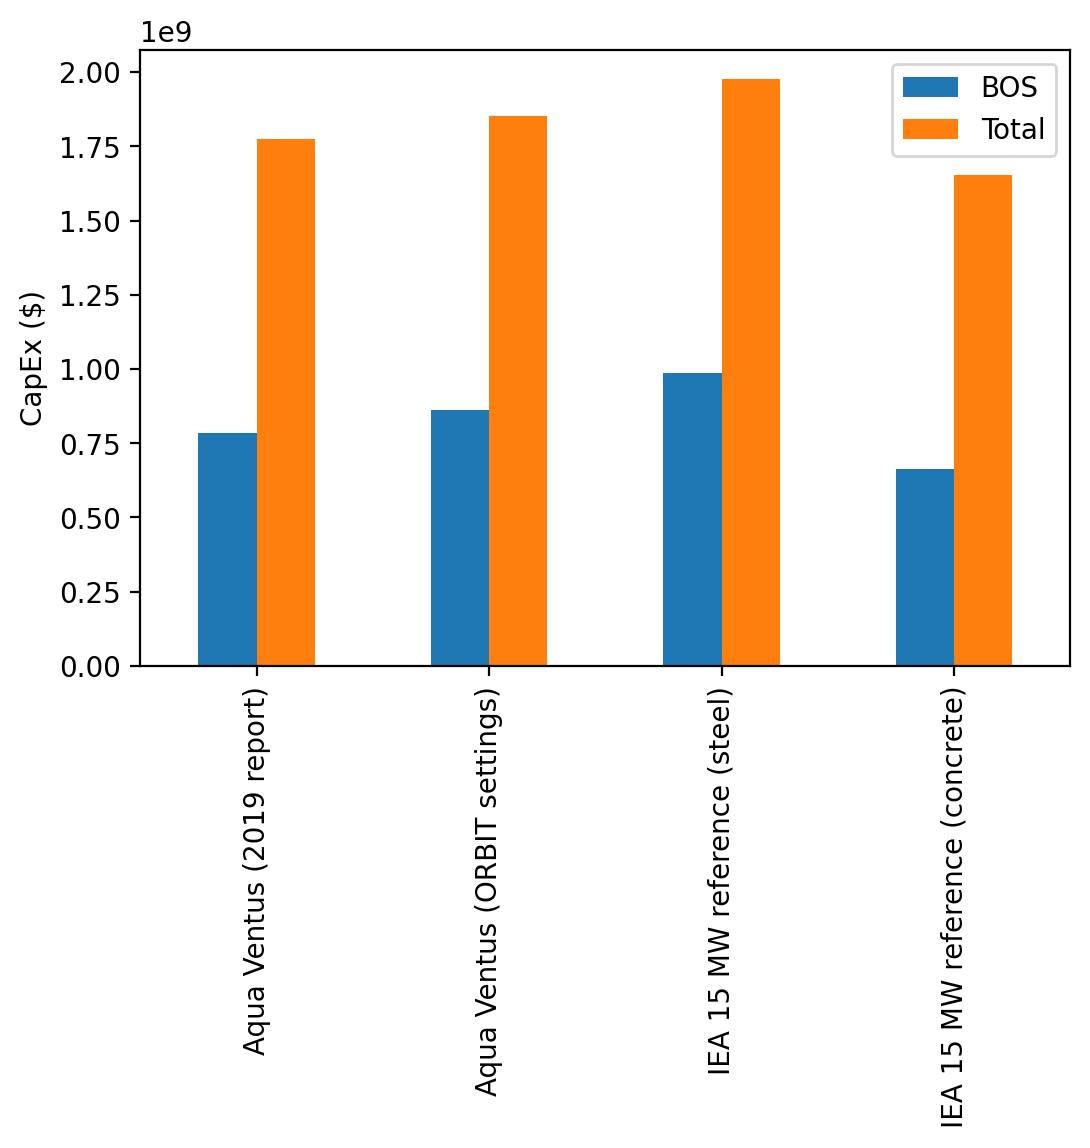
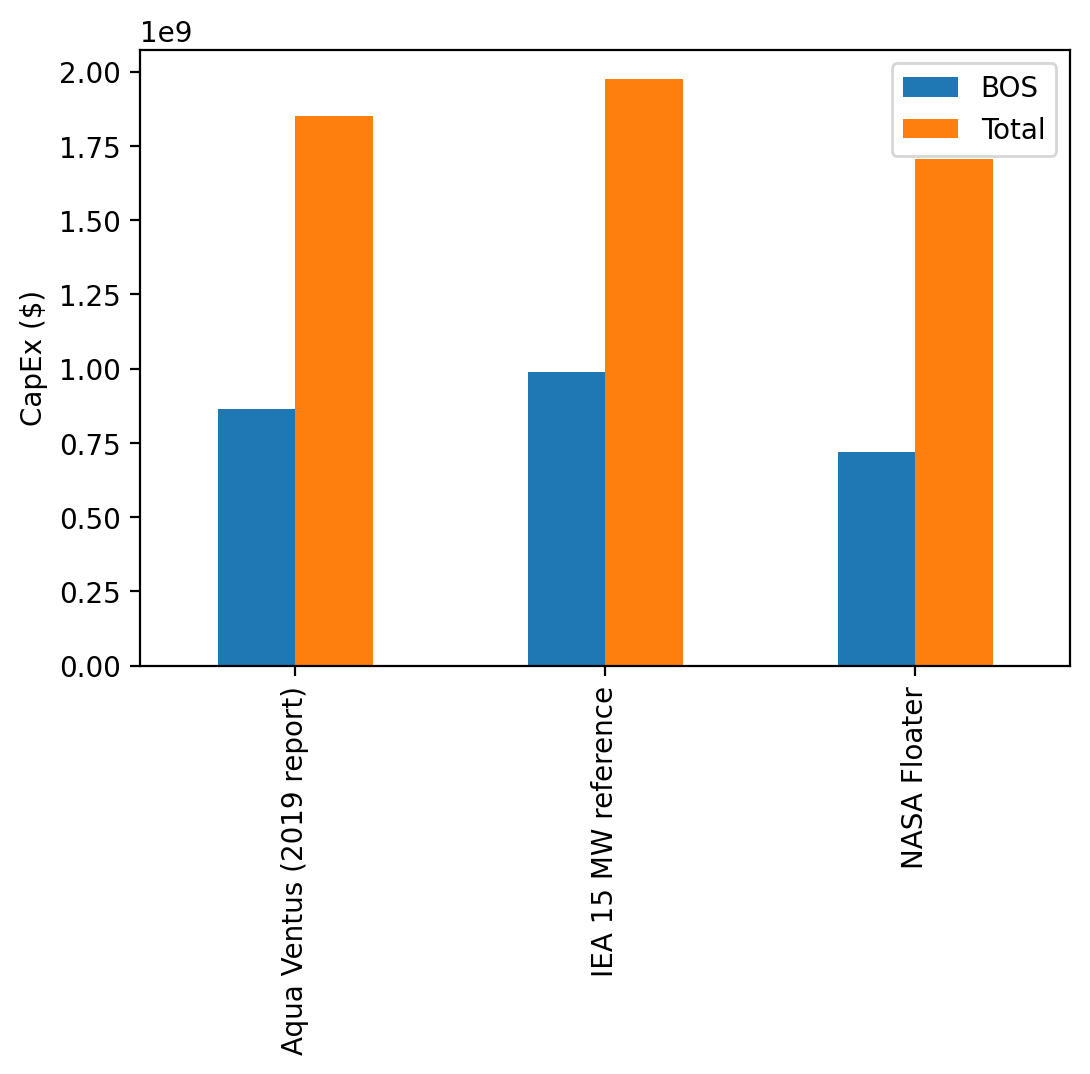
Updated NASA floater capex values

diff --git a/run_analysis.py b/run_analysis.py
@@ -23,6 +23,7 @@ AQUA_VENTUS_SUB_COSTS = 690 * PROJECT_kW # $
 AQUA_VENTUS_MOOR_COSTS = 0
 AQUA_VENTUS_ELEC_COSTS = 466 * PROJECT_kW # $
 TRANSPORT_COSTS = 1e6 / 5000  # $/t
+NASA_FLOATER_SUB_COSTS = 369.54 * PROJECT_kW
 
 WEATHER_FILES = {
     "US_east_coast": "data/weather/vineyard_2014_onward.csv",
@@ -57,7 +58,7 @@ def run():
         for yr in np.unique(weather.index.year):
             start = dt.date(yr, START_MONTH, 1)
             sub = weather.loc[start:]
-            
+
             try:
                 project = ProjectManager(config, weather=sub)
                 project.run()
@@ -117,27 +118,35 @@ def append_capex(name, project):
         breakdown = deepcopy(project.capex_breakdown)
 
         bos = project.bos_capex - breakdown['Substructure'] - breakdown['Mooring System'] + AQUA_VENTUS_SUB_COSTS + AQUA_VENTUS_MOOR_COSTS + AQUA_VENTUS_ELEC_COSTS
-        
+
         total = project.total_capex - breakdown['Substructure'] - breakdown['Mooring System'] + AQUA_VENTUS_SUB_COSTS + AQUA_VENTUS_MOOR_COSTS + AQUA_VENTUS_ELEC_COSTS
 
         breakdown["Substructure"] = AQUA_VENTUS_SUB_COSTS
         breakdown["Mooring System"] = AQUA_VENTUS_MOOR_COSTS
         breakdown["Electrical System"] = AQUA_VENTUS_ELEC_COSTS
 
-    elif "ORBIT Aqua Ventus" in name:
+    elif "Aqua Ventus" in name:
         breakdown = deepcopy(project.capex_breakdown)
 
-        bos = project.bos_capex - breakdown['Substructure'] - breakdown['Mooring System'] + AQUA_VENTUS_SUB_COSTS + AQUA_VENTUS_MOOR_COSTS 
-        
+        bos = project.bos_capex - breakdown['Substructure'] - breakdown['Mooring System'] + AQUA_VENTUS_SUB_COSTS + AQUA_VENTUS_MOOR_COSTS
+
         total = project.total_capex - breakdown['Substructure'] - breakdown['Mooring System'] + AQUA_VENTUS_SUB_COSTS + AQUA_VENTUS_MOOR_COSTS
 
         breakdown["Substructure"] = AQUA_VENTUS_SUB_COSTS
         breakdown["Mooring System"] = AQUA_VENTUS_MOOR_COSTS
-        
+
+    elif "NASA Floater" in name:
+        breakdown = deepcopy(project.capex_breakdown)
+        # print(breakdown)
+        breakdown["Substructure"] = NASA_FLOATER_SUB_COSTS
+
+        total = project.total_capex + NASA_FLOATER_SUB_COSTS
+        bos = project.bos_capex + NASA_FLOATER_SUB_COSTS
+
     else:
         breakdown = deepcopy(project.capex_breakdown)
-        total = project.total_capex 
-        bos = project.bos_capex 
+        total = project.total_capex
+        bos = project.bos_capex
 
     return total, bos, breakdown
 

diff --git a/configs.py b/configs.py
@@ -136,18 +136,18 @@ IEA15MW_concrete = {
         "strut_diameter": 0.9,
         # "steel_density": "kg/m^3 (optional, default: 8050)",
         # "ballast_mass": "tonnes (optional, default 2540)",
-        "steel_cost_rate": 1000,
-        # "ballast_cost_rate": "$/tonne (optional, default: 150)"
+        "steel_cost_rate": 0,
+        "ballast_cost_rate": 0,
     },
 
 }
 
 
 configs = {
-    "2019 Aqua Ventus": AquaVentus_match,
-    "ORBIT Aqua Ventus": AquaVentus_orbit,
-    "IEA15MW (Steel)": IEA15MW_steel,
-    "IEA15MW (Concrete)": IEA15MW_concrete
+    # "2019 Aqua Ventus": AquaVentus_match,
+    "Aqua Ventus": AquaVentus_orbit,
+    "IEA 15MW": IEA15MW_steel,
+    "NASA Floater": IEA15MW_concrete
     # "US_10MW_shallow": us_15MW_shallow,
     # "US_15MW_deep": us_10MW_deep,
     # "US_15MW_shallow": us_15MW_shallow,

diff --git a/create_plots.py b/create_plots.py
@@ -13,10 +13,10 @@ import matplotlib.pyplot as plt
 
 
 SCENARIO_MAP = {
-    '2019 Aqua Ventus': 'Aqua Ventus (2019 report)',
-    'ORBIT Aqua Ventus': 'Aqua Ventus (ORBIT settings)',
-    'IEA15MW (Steel)': 'IEA 15 MW reference (steel)',
-    'IEA15MW (Concrete)': 'IEA 15 MW reference (concrete)'
+    # '2019 Aqua Ventus': 'Aqua Ventus (2019 report)',
+    'Aqua Ventus': 'Aqua Ventus (2019 report)',
+    'IEA 15MW': 'IEA 15 MW reference',
+    'NASA Floater': 'NASA Floater'
 }
 
 FIGDIR = os.path.join(os.getcwd(), "figures")
